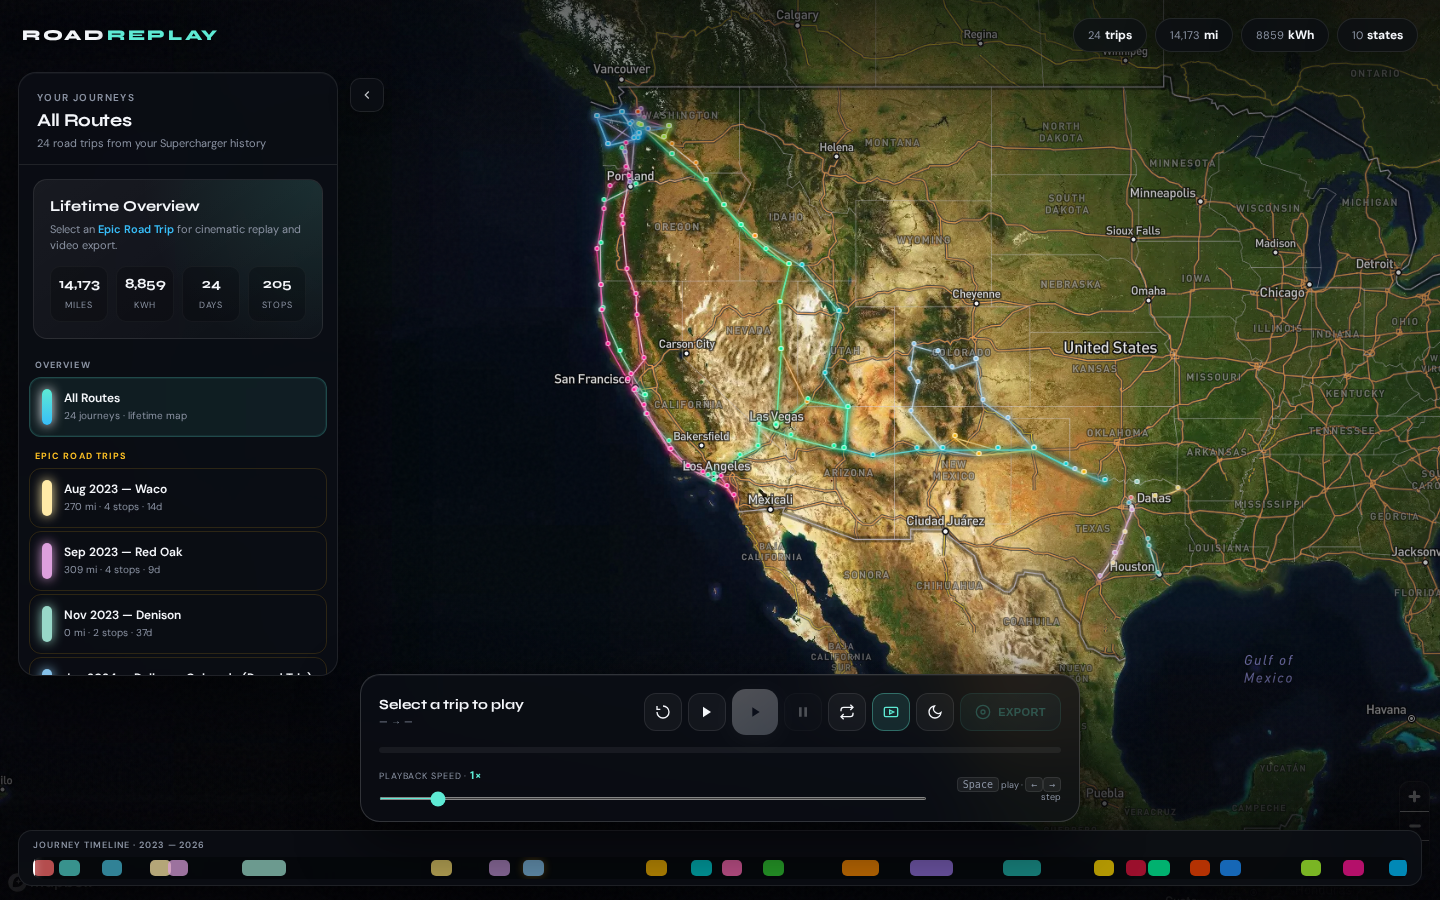
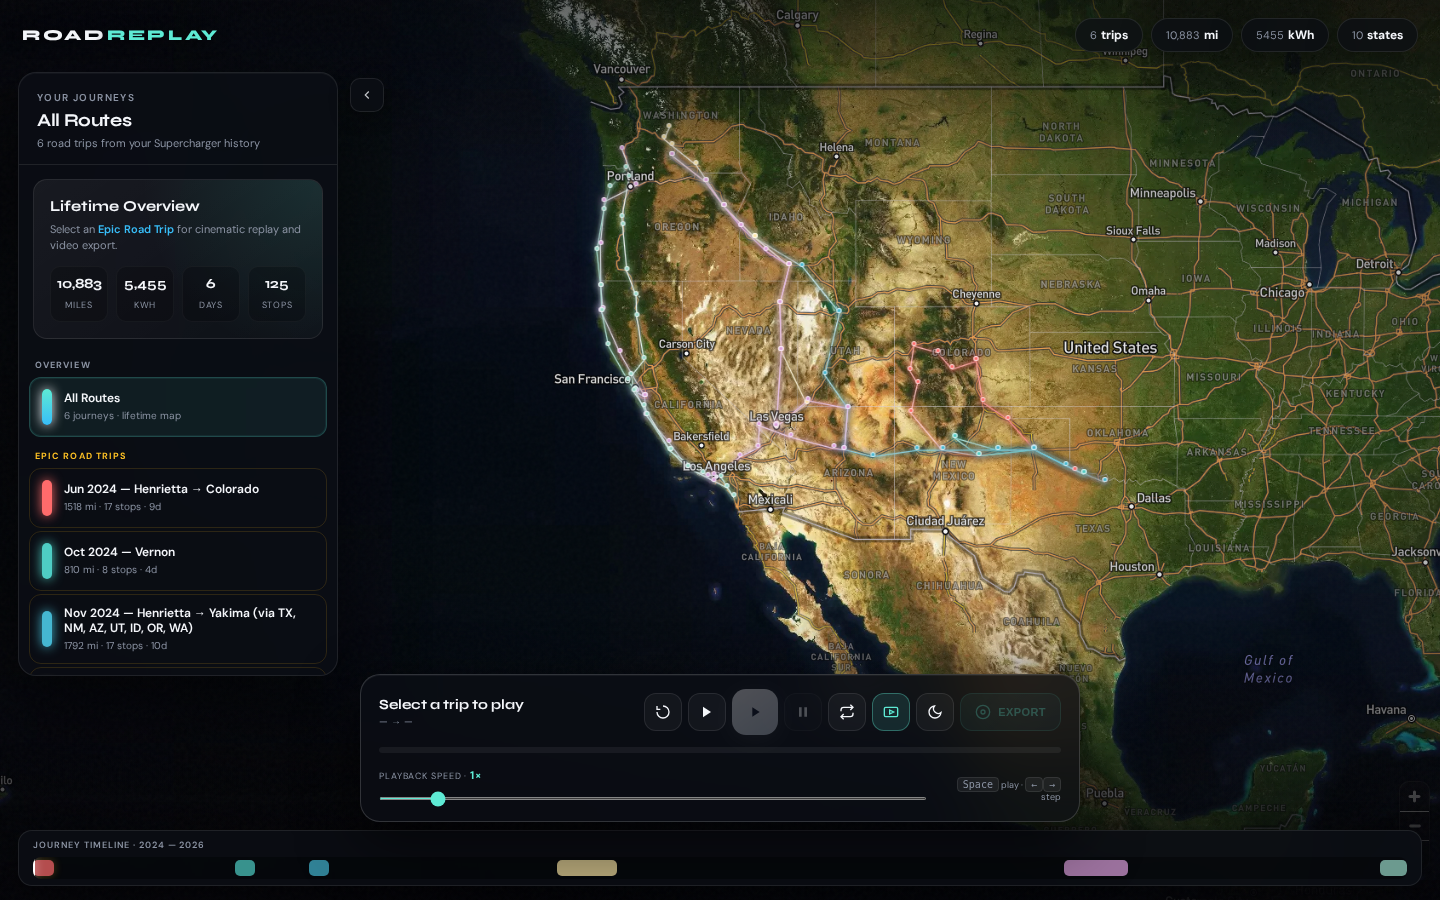
Fix export playback trail and rebuild map with 6 real trips
Use cumulative trail across completed legs, freeze trail during dwell/charging,
and smooth bearing during cinema export. Template generates sidebar from filtered
trips.json so false local metro segments no longer appear.

diff --git a/scripts/build_map.py b/scripts/build_map.py
@@ -210,25 +210,22 @@ def parse_ts(ts: str) -> datetime:
     return datetime.fromisoformat(str(ts).replace("Z", "+00:00"))
 
 
-def nearest_path_index(path: list[list[float]], lat: float, lng: float) -> int:
-    best, best_d = 0, float("inf")
-    for i, p in enumerate(path):
-        d = (p[0] - lat) ** 2 + (p[1] - lng) ** 2
-        if d < best_d:
-            best_d, best = d, i
-    return best
-
-
 def extract_leg_path(
-    route_path: list[list[float]], lat1: float, lng1: float, lat2: float, lng2: float
+    lat1: float, lng1: float, lat2: float, lng2: float,
 ) -> list[list[float]]:
-    if not route_path:
-        return great_circle_arc(lat1, lng1, lat2, lng2, num_points=32)
-    i1 = nearest_path_index(route_path, lat1, lng1)
-    i2 = nearest_path_index(route_path, lat2, lng2)
-    if i1 <= i2 and i2 - i1 >= 1:
-        return route_path[i1 : i2 + 1]
-    return great_circle_arc(lat1, lng1, lat2, lng2, num_points=32)
+    """Always use a smooth great-circle arc between consecutive stops."""
+    dist = haversine_miles(lat1, lng1, lat2, lng2)
+    points = max(32, min(128, int(max(dist, 5) * 1.5)))
+    return great_circle_arc(lat1, lng1, lat2, lng2, num_points=points)
+
+
+def leg_bearing_deg(lat1: float, lng1: float, lat2: float, lng2: float) -> float:
+    p = math.pi / 180
+    lat1r, lat2r = lat1 * p, lat2 * p
+    dLng = (lng2 - lng1) * p
+    y = math.sin(dLng) * math.cos(lat2r)
+    x = math.cos(lat1r) * math.sin(lat2r) - math.sin(lat1r) * math.cos(lat2r) * math.cos(dLng)
+    return (math.degrees(math.atan2(y, x)) + 360) % 360
 
 
 def build_playback_timeline(stops: list[dict], route_path: list[list[float]]) -> dict:
@@ -256,7 +253,7 @@ def build_playback_timeline(stops: list[dict], route_path: list[list[float]]) ->
             dwell_ms = int(gap_ms * dwell_ratio)
             travel_ms = gap_ms - dwell_ms
             leg_path = extract_leg_path(
-                route_path, stop["lat"], stop["lng"], nxt["lat"], nxt["lng"]
+                stop["lat"], stop["lng"], nxt["lat"], nxt["lng"]
             )
             raw_segments.append({
                 "type": "dwell",
@@ -270,6 +267,7 @@ def build_playback_timeline(stops: list[dict], route_path: list[list[float]]) ->
                 "type": "travel",
                 "real_duration_ms": travel_ms,
                 "path": leg_path,
+                "bearing": round(leg_bearing_deg(stop["lat"], stop["lng"], nxt["lat"], nxt["lng"]), 1),
                 "from_label": label,
                 "to_label": short_location_label(nxt["location"]),
                 "stop_index": i,
